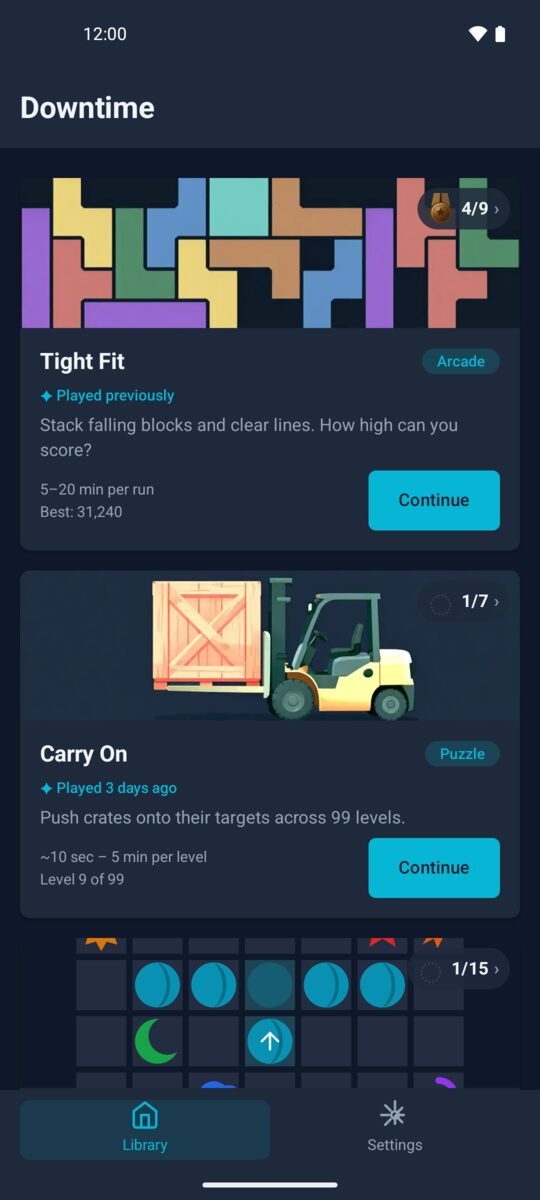
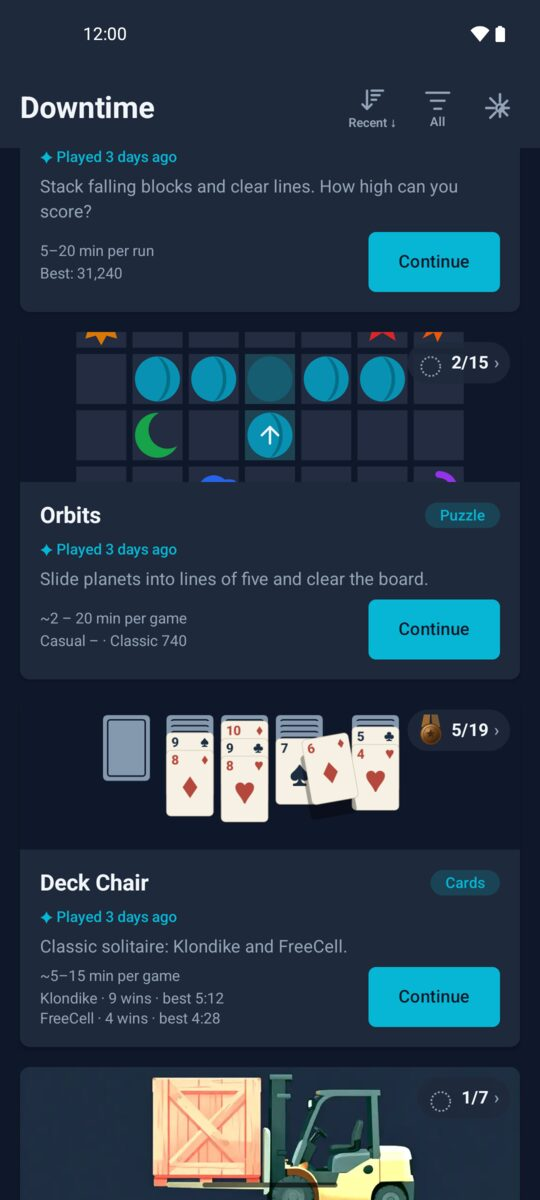
v1.3.0: Deck Chair added — What's new entry, press kit facts, five games, new screenshots
The What's new entry is the Play release notes, verbatim. Deck Chair joins the games list on both
pages (its paragraph is the Play listing line), with Klondike, FreeCell and landscape shots from the
1.3.0 build. The library shot is replaced: the header changed (sort and filter) and the bottom bar is
gone, so the 1.2.0 one no longer shows the app. The video note still says four games on 1.2.1 — it is
accurate for the existing video, and the re-cut is tracked in GameMachine.

diff --git a/press-kit.html b/press-kit.html
@@ -66,7 +66,7 @@
 </head>
 <body>
   <h1><img class="icon" src="assets/icon-512.png" alt="Downtime app icon"> Downtime - Press Kit</h1>
-  <p class="date">Last updated: 26 October 2026</p>
+  <p class="date">Last updated: 4 November 2026</p>
 
   <p><strong>Downtime</strong> is a small collection of offline puzzle games for Android. I built it
   based on my travelling and commuting experience: on business trips and commuting to the office,
@@ -88,10 +88,10 @@
     <tr><th>Platform</th><td>Android 9.0 (API 28) and above</td></tr>
     <tr><th>Price</th><td>Free</td></tr>
     <tr><th>Download size</th><td>~7 MB</td></tr>
-    <tr><th>Current version</th><td>1.2.1 (26 October 2026)</td></tr>
+    <tr><th>Current version</th><td>1.3.0 (4 November 2026)</td></tr>
     <tr><th>First released</th><td>31 July 2026</td></tr>
     <tr><th>Play Store</th><td><a href="https://play.google.com/store/apps/details?id=com.ggryva.downtime">play.google.com/store/apps/details?id=com.ggryva.downtime</a></td></tr>
-    <tr><th>Games included</th><td>Tight Fit (stack falling pieces without gaps) · Carry On (move boxes into dedicated places) · Orbits (move planets to make lines) · Soundings (find mines and submarines)</td></tr>
+    <tr><th>Games included</th><td>Tight Fit (stack falling pieces without gaps) · Carry On (move boxes into dedicated places) · Orbits (move planets to make lines) · Soundings (find mines and submarines) · Deck Chair (Klondike and FreeCell solitaires)</td></tr>
     <tr><th>Adverts</th><td>None</td></tr>
     <tr><th>Accounts / sign-in</th><td>None</td></tr>
     <tr><th>Data collected</th><td>None - see the <a href="/privacy-policy">privacy policy</a></td></tr>
@@ -99,7 +99,7 @@
     <tr><th>Contact</th><td><a href="mailto:gennadiygryva@gmail.com">gennadiygryva@gmail.com</a></td></tr>
   </table>
 
-  <h2>The four games</h2>
+  <h2>The five games</h2>
 
   <p><strong>Tight Fit</strong> - a classic-inspired game. Put the falling pieces of different shape
   fast to fit them without gaps and clear the lines. The speed increases as you play - see how deep
@@ -115,12 +115,15 @@
   <p><strong>Soundings</strong> - two naval-themed puzzles. Find all mines in the Sweep mode, and all
   submarines in the Hunt mode.</p>
 
-  <p>All four games have objectives and medals to earn, and progress saves automatically.</p>
+  <p><strong>Deck Chair</strong> - 2 classic solitaires, Klondike and FreeCell.</p>
+
+  <p>All five games have objectives and medals to earn, and progress saves automatically.</p>
 
   <h2>Screenshots</h2>
   <p>Click any image for the file shown (portrait 540×1200, landscape 1200×540, JPEG). All are
   captured on a 1080×2400 phone - except the light-theme shot, which is from a 720×1600 one. The
-  Soundings shots are from the 1.2.0 build, the rest from 1.1.2.</p>
+  Soundings shots are from the 1.2.0 build, the Deck Chair and library shots from 1.3.0, the rest
+  from 1.1.2.</p>
 
   <div class="shots">
     <figure>
@@ -152,16 +155,24 @@
       <figcaption>Soundings, Hunt mode</figcaption>
     </figure>
     <figure>
+      <a href="assets/screenshots/14-deckchair-klondike.jpg"><img src="assets/screenshots/14-deckchair-klondike.jpg" alt="Deck Chair, a Klondike game in progress: tableau columns, the stock and waste, and four foundations"></a>
+      <figcaption>Deck Chair, Klondike</figcaption>
+    </figure>
+    <figure>
+      <a href="assets/screenshots/15-deckchair-freecell.jpg"><img src="assets/screenshots/15-deckchair-freecell.jpg" alt="Deck Chair, a FreeCell game in progress: eight columns, two of the four free cells taken"></a>
+      <figcaption>Deck Chair, FreeCell</figcaption>
+    </figure>
+    <figure>
       <a href="assets/screenshots/07-objectives.jpg"><img src="assets/screenshots/07-objectives.jpg" alt="The Tight Fit objectives screen showing bronze, silver and gold tiers with progress bars"></a>
       <figcaption>Objectives and medals</figcaption>
     </figure>
     <figure>
-      <a href="assets/screenshots/08-library.jpg"><img src="assets/screenshots/08-library.jpg" alt="The Downtime library screen, with progress shown on each game"></a>
+      <a href="assets/screenshots/08-library.jpg"><img src="assets/screenshots/08-library.jpg" alt="The Downtime library screen, with sort and filter buttons in the header and progress shown on each game"></a>
       <figcaption>The library</figcaption>
     </figure>
   </div>
 
-  <p>All four games play in landscape as well as portrait:</p>
+  <p>All five games play in landscape as well as portrait:</p>
 
   <div class="shots shots-wide">
     <figure>
@@ -179,6 +190,10 @@
     <figure>
       <a href="assets/screenshots/13-soundings-landscape.jpg"><img src="assets/screenshots/13-soundings-landscape.jpg" alt="Soundings in landscape, minefield centred with the controls at the side"></a>
       <figcaption>Soundings, landscape</figcaption>
+    </figure>
+    <figure>
+      <a href="assets/screenshots/16-deckchair-landscape.jpg"><img src="assets/screenshots/16-deckchair-landscape.jpg" alt="Deck Chair Klondike in landscape, stock on the left and foundations on the right"></a>
+      <figcaption>Deck Chair, landscape</figcaption>
     </figure>
   </div>
 

diff --git a/index.html b/index.html
@@ -4,19 +4,19 @@
   <meta charset="UTF-8">
   <meta name="viewport" content="width=device-width, initial-scale=1.0">
   <title>Downtime - Offline Puzzle Games for Android</title>
-  <meta name="description" content="Four complete puzzle games for Android that work with no internet at all. No adverts, no account, no data collected.">
+  <meta name="description" content="Five complete puzzle games for Android that work with no internet at all. No adverts, no account, no data collected.">
   <link rel="canonical" href="https://playdowntime.com/">
   <link rel="icon" href="/assets/icon-512.png" type="image/png">
   <link rel="apple-touch-icon" href="/assets/icon-512.png">
   <meta property="og:type" content="website">
   <meta property="og:site_name" content="Downtime">
   <meta property="og:title" content="Downtime - Offline Puzzle Games for Android">
-  <meta property="og:description" content="Four complete puzzle games for Android that work with no internet at all. No adverts, no account, no data collected.">
+  <meta property="og:description" content="Five complete puzzle games for Android that work with no internet at all. No adverts, no account, no data collected.">
   <meta property="og:url" content="https://playdowntime.com/">
   <meta property="og:image" content="https://playdowntime.com/assets/icon-512.png">
   <meta name="twitter:card" content="summary">
   <meta name="twitter:title" content="Downtime - Offline Puzzle Games for Android">
-  <meta name="twitter:description" content="Four complete puzzle games for Android that work with no internet at all. No adverts, no account, no data collected.">
+  <meta name="twitter:description" content="Five complete puzzle games for Android that work with no internet at all. No adverts, no account, no data collected.">
   <meta name="twitter:image" content="https://playdowntime.com/assets/icon-512.png">
   <style>
     body {
@@ -63,7 +63,7 @@
   you can quickly open and play the games in short sessions, and can be played fully offline (even in
   airplane mode) without any data collected about you.</p>
 
-  <p>At the start, it includes 4 games:</p>
+  <p>At the start, it includes 5 games:</p>
   <p><strong>Tight Fit</strong> - a classic-inspired game. Put the falling pieces of different shape
   fast to fit them without gaps and clear the lines. The speed increases as you play - see how deep
   you can get before the field fills up.</p>
@@ -74,6 +74,7 @@
   turn, so you need to clear the lines before the board fills up.</p>
   <p><strong>Soundings</strong> - two naval-themed puzzles. Find all mines in the Sweep mode, and all
   submarines in the Hunt mode.</p>
+  <p><strong>Deck Chair</strong> - 2 classic solitaires, Klondike and FreeCell.</p>
 
   <div class="cta">
     <a href="https://play.google.com/store/apps/details?id=com.ggryva.downtime">
@@ -87,7 +88,8 @@
     <img src="assets/screenshots/04-carryon-buttons.jpg" alt="Carry On mid-level: crates and target markers on a grid, with an on-screen d-pad below">
     <img src="assets/screenshots/09-orbits.jpg" alt="Orbits mid-game: planets of different colours scattered across a grid, with the next three shown above">
     <img src="assets/screenshots/11-soundings-sweep.jpg" alt="Soundings in Sweep mode: a part-cleared minefield with numbered cells and flags">
-    <img src="assets/screenshots/08-library.jpg" alt="The Downtime library screen, with progress shown on each game">
+    <img src="assets/screenshots/14-deckchair-klondike.jpg" alt="Deck Chair, a Klondike game in progress: tableau columns, the stock and waste, and four foundations">
+    <img src="assets/screenshots/08-library.jpg" alt="The Downtime library screen, with sort and filter buttons in the header and progress shown on each game">
   </div>
 
   <p>You can play it by swiping on screen, or using on-screen buttons, change between dark and light
@@ -98,6 +100,7 @@
     <img src="assets/screenshots/06-carryon-landscape.jpg" alt="Carry On in landscape, with the puzzle grid centred on screen">
     <img src="assets/screenshots/10-orbits-landscape.jpg" alt="Orbits in landscape, with the planet grid centred on screen">
     <img src="assets/screenshots/13-soundings-landscape.jpg" alt="Soundings in landscape, with the minefield centred and the controls at the side">
+    <img src="assets/screenshots/16-deckchair-landscape.jpg" alt="Deck Chair Klondike in landscape, with the stock on the left and the foundations on the right">
   </div>
   <div class="shots">
     <img src="assets/screenshots/03-tightfit-buttons.jpg" alt="Tight Fit with on-screen buttons: move, rotate and drop controls below the board">

diff --git a/whats-new.html b/whats-new.html
@@ -41,6 +41,14 @@
 <body>
   <h1>Downtime - What's new</h1>
 
+  <h2>Version 1.3.0</h2>
+  <p class="date">4 November 2026</p>
+  <ul>
+    <li>New game Deck Chair: 2 classic solitaires, Klondike and FreeCell.</li>
+    <li>Redesigned game library that now allows sorting and filters to find and open your favourite games faster.</li>
+    <li>Interface and stability improvements, and bug fixes.</li>
+  </ul>
+
   <h2>Version 1.2.1</h2>
   <p class="date">26 October 2026</p>
   <ul>
